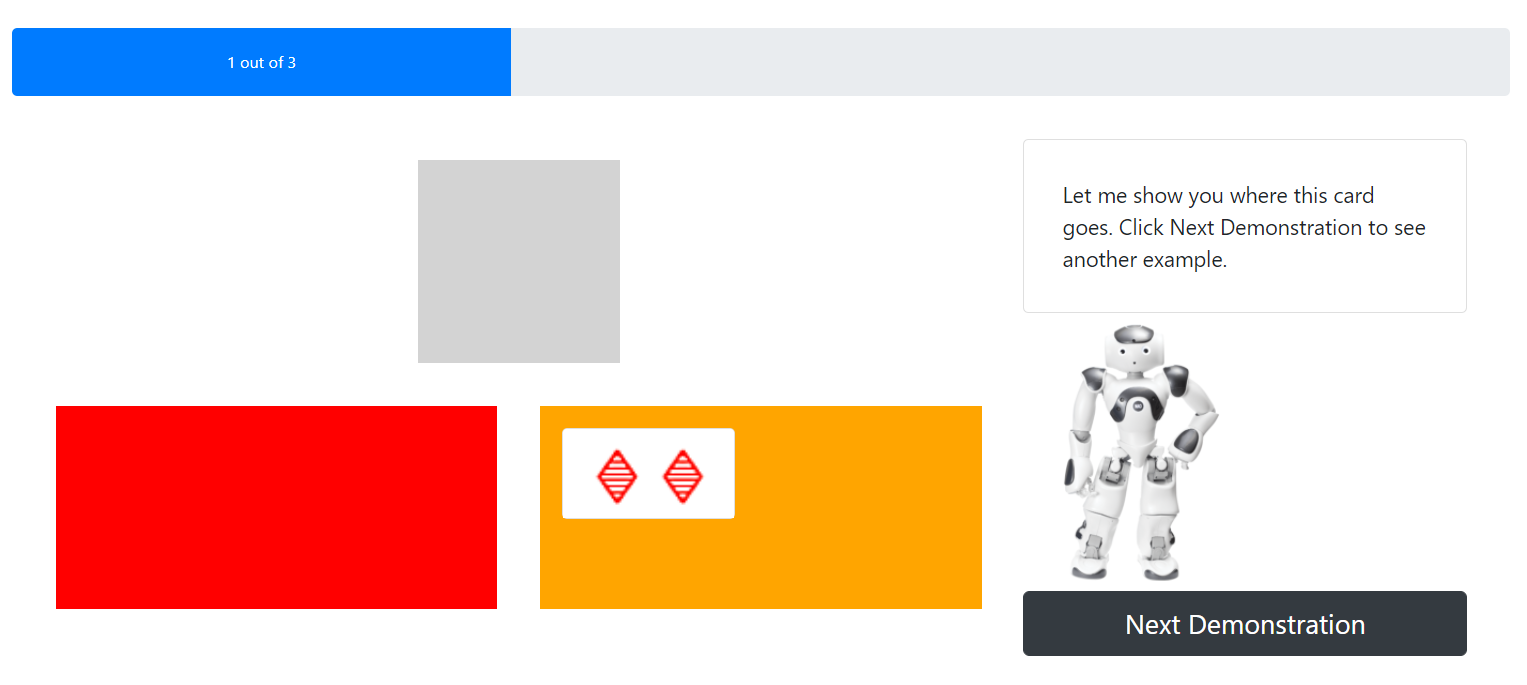
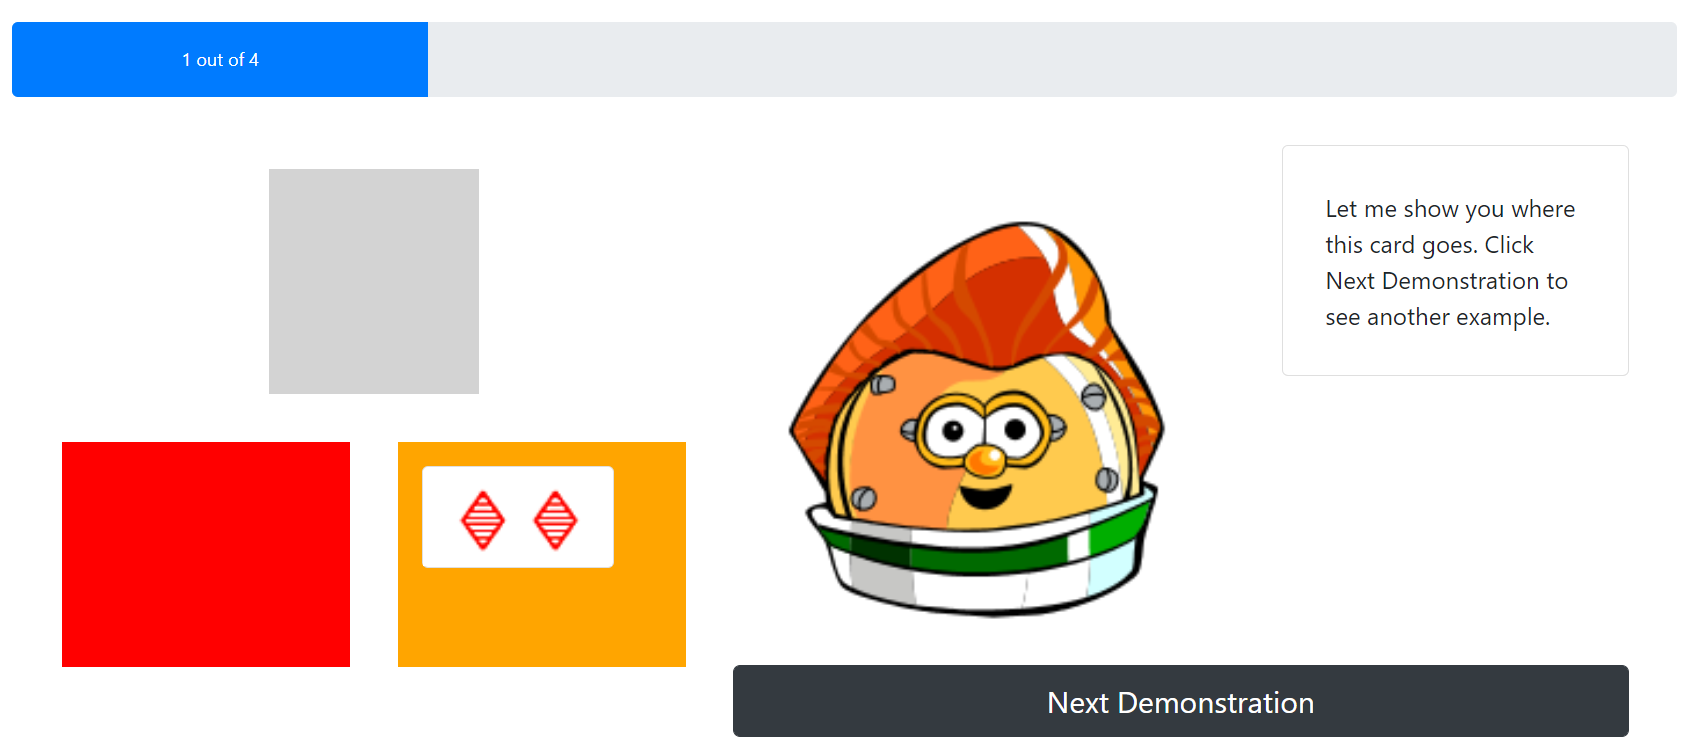
Added nonverbal feedback
- Added nonverbal feedback to entire pipeline
- Updated training
- Option in params.py to change the feedback type

diff --git a/app/templates/trials.html b/app/templates/trials.html
@@ -5,7 +5,7 @@
         {{num_completed_trials}} out of {{num_trials}}</div>
 </div>
 <div class="row" style="padding: 2em;">
-    <div class="col-8">
+    <div class="col-5">
         <div class="row">
             <div class="col"></div>
             <div id="staging" class="staging col">
@@ -23,26 +23,32 @@
             {% endfor %}
         </div>
         <div class="row">
-            {% for bin_id in range(num_bins) %}
-            <span id="bin_feedback{{bin_id}}" class="invisible">{{feedback[bin_id]}}</span> {% endfor %}
-        </div>
-        <div class="row">
-            <div class="col"></div>
             <div class="col">
                 <button type="button" class="btn btn-dark w-100" id="submit_choice_btn" onclick="showFeedback()">Submit
                     Choice</button>
-
             </div>
-            <div class="col"></div>
+        </div>
+        <div class="row">
+            {% for bin_id in range(num_bins) %}
+            <span id="bin_text_feedback{{bin_id}}" class="invisible">{{text_feedback[bin_id]}}</span>
+            <span id="bin_nonverbal_feedback{{bin_id}}" class="invisible">{{nonverbal_feedback[bin_id]}}</span> {% endfor %}
+            <span id="feedback_type" class="invisible">{{feedback_type}}</span>
         </div>
     </div>
-    <div class="col-4">
-        <div class="card w-80" style="padding: 0.5em;">
-            <div class="card-body" id="feedback_text">
-                Choose the bin you think the card belongs in
+    <div class="col-7">
+        <div class="row">
+            <div class="col-7">
+                <img id="robot" class="card-img-top w-100" style="padding: 0.5em;" src="../static/peach_1.png">
+            </div>
+            <div class="col-5">
+                <div class="card w-100" style="padding: 0.5em;">
+                    <div class="card-body" id="feedback_text">
+                        Choose the bin you think the card belongs in
+                    </div>
+                </div>
             </div>
         </div>
-        <img class="card-img-top w-50" style="padding: 0.5em;" src="../static/nao_static.png">
+
         <form action="" method="post">
             {{ form.hidden_tag() }}
 
@@ -52,6 +58,7 @@
             {{ form.submit_trial(class="btn btn-dark btn-lg w-100") }}
             <span class="invisible">{{ form.chosen_bin(cols=32, rows=4) }} </span>
         </form>
+
     </div>
 </div>
 

diff --git a/app/static/trials_script.js b/app/static/trials_script.js
@@ -1,3 +1,5 @@
+var timeout;
+
 function $(id) {
     return document.getElementById(id);
 };
@@ -21,13 +23,51 @@ function showFeedback() {
     var chosen_bin = document.getElementById("chosen_bin").value;
     var submit_choice_btn = document.getElementById("submit_choice_btn");
     var submit_trial_btn = document.getElementById("submit_trial");
+    var feedback_type = document.getElementById("feedback_type").innerHTML;
+    console.log(feedback_type);
 
     if (chosen_bin == "staging" || chosen_bin == "") {
         feedback_box.innerHTML = "Please choose a bin for the card!";
     } else {
-        feedback_box.innerHTML = $("bin_feedback" + chosen_bin[3]).innerHTML + " Go to the next trial.";
+        if (feedback_type == "text" || feedback_type == "both") {
+            feedback_box.innerHTML = $("bin_text_feedback" + chosen_bin[3]).innerHTML + " Go to the next trial.";
+        }
+        if (feedback_type == "nonverbal" || feedback_type == "both") {
+            var nonverbal = $("bin_nonverbal_feedback" + chosen_bin[3]).innerHTML.split(";");
+            var images = []
+            for (i = 0; i < nonverbal.length - 1; i++) {
+                images.push(nonverbal[i]);
+            }
+            var interval = parseInt(nonverbal[nonverbal.length - 1])
+
+            looper(images, interval, "robot");
+        }
+        if (feedback_type == "none") {
+            feedback_box.innerHTML = "Go to the next trial.";
+        }
         submit_choice_btn.disabled = true;
         submit_trial_btn.disabled = false;
         drake.destroy();
     }
+}
+
+function looper(images, interval, image_id) {
+    current_image = document.getElementById(image_id).src;
+    timeout = setTimeout(function() {
+        if (images.length == 2) {
+            if (current_image == images[0]) {
+                document.getElementById(image_id).src = images[1];
+                looper(images, interval, image_id);
+            } else {
+                document.getElementById(image_id).src = images[0];
+                looper(images, interval, image_id);
+            }
+        }
+
+    }, interval);
+
+}
+
+document.getElementById("submit_trial").onclick = function() {
+    clearTimeout(timeout);
 }

diff --git a/app/templates/demos.html b/app/templates/demos.html
@@ -5,7 +5,7 @@
 </div>
 
 <div class="row" style="padding: 2em;">
-    <div class="col-8">
+    <div class="col-5">
         <div class="row">
             <div class="col"></div>
             <div id="staging" class="staging col">
@@ -25,13 +25,20 @@
             {% endfor %}
         </div>
     </div>
-    <div class="col-4">
-        <div class="card w-80" style="padding: 0.5em;">
-            <div class="card-body" id="feedback_text">
-                Let me show you where this card goes. Click Next Demonstration to see another example.
+    <div class="col-7">
+        <div class="row">
+            <div class="col-7">
+                <img class="card-img-top w-100" style="padding: 0.5em;" src="../static/peach_static.png">
+            </div>
+            <div class="col-5">
+                <div class="card w-100" style="padding: 0.5em;">
+                    <div class="card-body" id="feedback_text">
+                        Let me show you where this card goes. Click Next Demonstration to see another example.
+                    </div>
+                </div>
             </div>
         </div>
-        <img class="card-img-top w-50" style="padding: 0.5em;" src="../static/nao_static.png">
+
         <form action="" method="post">
             {{ form.hidden_tag() }} {{ form.submit_demo(class="btn btn-dark btn-lg w-100") }}
         </form>

diff --git a/app/routes.py b/app/routes.py
@@ -131,12 +131,15 @@ def trials():
     num_completed_demos=current_user.demos.count()
     cur_card = CARD_ORDER[min(num_completed_trials, len(CARD_ORDER) - 1)]
     cur_answer = ANSWER[min(num_completed_trials, len(CARD_ORDER) - 1)]
-    feedback = []
+    text_feedback = []
+    nonverbal_feedback = []
     for ii, answer in enumerate(cur_answer):
-        if answer == 0:
-            feedback.append("Incorrect!")
+        if answer == 1:
+            text_feedback.append(TEXT_FEEDBACK['Correct'])
+            nonverbal_feedback.append(';'.join(NONVERBAL_FEEDBACK['Correct']))
         else:
-            feedback.append("Correct!")
+            text_feedback.append(TEXT_FEEDBACK['Incorrect'])
+            nonverbal_feedback.append(';'.join(NONVERBAL_FEEDBACK['Incorrect']))
             correct_bin = ii
 
     if form.validate_on_submit():
@@ -146,8 +149,9 @@ def trials():
                       card_num=cur_card,
                       correct_bin=correct_bin,
                       chosen_bin=chosen_bin,
-                      feedback_given=feedback[chosen_bin],
-                      feedback_type="text",
+                      text_feedback=text_feedback[chosen_bin],
+                      nonverbal_feedback=nonverbal_feedback[chosen_bin],
+                      feedback_type=FEEDBACK_TYPE,
                       rule_set=rules_to_str(RULES))
         db.session.add(trial)
         db.session.commit()
@@ -172,7 +176,9 @@ def trials():
                                card=cur_card,
                                num_completed_trials=num_completed_trials,
                                num_trials=NUM_TRIALS,
-                               feedback=feedback)
+                               text_feedback=text_feedback,
+                               nonverbal_feedback=nonverbal_feedback,
+                               feedback_type=FEEDBACK_TYPE)
         else:
             flash("You must complete the modules in order!")
             return redirect(url_for("index"))

diff --git a/app/params.py b/app/params.py
@@ -1,4 +1,5 @@
-DEBUG_MODE = True
+DEBUG_MODE = False
+FEEDBACK_TYPE = 'both' #none, text, nonverbal, both
 
 CARD_PROPERTIES = []
 for color in ['red', 'green', 'purple']:
@@ -10,15 +11,14 @@ for color in ['red', 'green', 'purple']:
 NUM_BINS = 2
 RULES = [
             [
-                [['red', 'green', 'purple'], ['open', 'striped', 'solid'], ['oval', 'squiggle'], ['one']]
+                [['red', 'green', 'purple'], ['open', 'striped', 'solid'], ['oval'], ['one', 'two', 'three']]
             ],
             [
-                [['red', 'green', 'purple'], ['open', 'striped', 'solid'], ['diamond', 'oval', 'squiggle'], ['two', 'three']],
-                [['red', 'green', 'purple'], ['open', 'striped', 'solid'], ['diamond'], ['one']]
+                [['red', 'green', 'purple'], ['open', 'striped', 'solid'], ['diamond', 'squiggle'], ['one', 'two', 'three']]
             ]
         ]
 
-CARD_ORDER = [3, 5, 6, 8, 10, 12, 34]
+CARD_ORDER = [7, 27, 60, 79, 32, 10, 45, 15, 3, 55]
 NUM_TRIALS = len(CARD_ORDER)
 ANSWER = []
 for card in CARD_ORDER:
@@ -34,7 +34,7 @@ for card in CARD_ORDER:
                     bin_res[cur_bin_num] = 1
     ANSWER.append(bin_res)
 
-CARD_ORDER_DEMO = [10, 12, 34]
+CARD_ORDER_DEMO = [10, 33, 75, 57]
 NUM_DEMOS = len(CARD_ORDER_DEMO)
 ANSWER_DEMO = []
 for card in CARD_ORDER_DEMO:
@@ -49,3 +49,6 @@ for card in CARD_ORDER_DEMO:
                 if res == 1:
                     bin_res[cur_bin_num] = 1
     ANSWER_DEMO.append(bin_res)
+
+TEXT_FEEDBACK = {'Correct': 'Correct!', 'Incorrect': 'Incorrect!'}
+NONVERBAL_FEEDBACK = {'Correct': ['http://127.0.0.1:5000/static/peach_1.png', 'http://127.0.0.1:5000/static/peach_2.png', '200'], 'Incorrect': ['http://127.0.0.1:5000/static/peach_2.png', 'http://127.0.0.1:5000/static/peach_5.png', '500']}

diff --git a/migrations/versions/8a1b3de6b5d0_users_table.py b/migrations/versions/8a1b3de6b5d0_users_table.py
@@ -1,8 +1,8 @@
 """users table
 
-Revision ID: 632d7fef4f8e
+Revision ID: 8a1b3de6b5d0
 Revises: 
-Create Date: 2020-11-05 09:19:03.938327
+Create Date: 2020-11-14 09:57:31.685223
 
 """
 from alembic import op
@@ -10,7 +10,7 @@ import sqlalchemy as sa
 
 
 # revision identifiers, used by Alembic.
-revision = '632d7fef4f8e'
+revision = '8a1b3de6b5d0'
 down_revision = None
 branch_labels = None
 depends_on = None
@@ -56,7 +56,8 @@ def upgrade():
     sa.Column('card_num', sa.Integer(), nullable=True),
     sa.Column('correct_bin', sa.Integer(), nullable=True),
     sa.Column('chosen_bin', sa.Integer(), nullable=True),
-    sa.Column('feedback_given', sa.String(length=300), nullable=True),
+    sa.Column('text_feedback', sa.String(length=300), nullable=True),
+    sa.Column('nonverbal_feedback', sa.String(length=300), nullable=True),
     sa.Column('feedback_type', sa.String(length=20), nullable=True),
     sa.Column('rule_set', sa.String(length=300), nullable=True),
     sa.ForeignKeyConstraint(['user_id'], ['user.id'], ),

diff --git a/app/models.py b/app/models.py
@@ -43,7 +43,8 @@ class Trial(db.Model):
     card_num = db.Column(db.Integer)
     correct_bin = db.Column(db.Integer)
     chosen_bin = db.Column(db.Integer)
-    feedback_given = db.Column(db.String(300))
+    text_feedback = db.Column(db.String(300))
+    nonverbal_feedback = db.Column(db.String(300))
     feedback_type = db.Column(db.String(20))
     rule_set = db.Column(db.String(300))
 

diff --git a/README.md b/README.md
@@ -1,21 +1,13 @@
 # robot-teaches-game
 
-## Notes
+## Installation
 - Install VS Code
-- Install Python 3
 - Do the set-up instructions from https://code.visualstudio.com/docs/python/tutorial-flask starting with the Prerequisites and Create Project Environment sections
-- Install Flask with `pip3 install flask` inside the `env`
-- Run the app with `python -m flask run`
-- https://stackoverflow.com/questions/56199111/visual-studio-code-cmd-error-cannot-be-loaded-because-running-scripts-is-disabl
-- https://github.com/bevacqua/dragula/
-- Alt + Shift + F is auto-indent
-- Flask Login with Database https://blog.miguelgrinberg.com/post/the-flask-mega-tutorial-part-v-user-logins
-- DB to CSV with https://www.rebasedata.com/convert-sqlite-to-csv-online
-
+- Select Interpretor to the `venv` and `Ctrl + Shift +` ` to open console within the env
+- Install Flask with `pip install flask` inside the env
+- Install Packages with pip, for example `pip install numpy scipy matplotlib` (there are definitely more packages needed, but not listed here. Install based on errors that you find)
+- Create the database using
 ```
-python -m venv env
-python -m pip install --upgrade pip
-pip install flask
 flask db init
 flask db migrate -m "users table"
 flask db upgrade
@@ -23,9 +15,12 @@ flask db migrate -m "trials table"
 flask db upgrade
 flask db migrate -m "demos table"
 flask db upgrade
-
-(Select Interpretor and Ctrl + Shift + `)
-python -m flask run
-
-pip install numpy scipy matplotlib
 ```
+- Run the app with `python -m flask run`
+
+## Useful Links
+- https://stackoverflow.com/questions/56199111/visual-studio-code-cmd-error-cannot-be-loaded-because-running-scripts-is-disabl
+- https://github.com/bevacqua/dragula/
+- Alt + Shift + F is auto-indent
+- Flask Login with Database https://blog.miguelgrinberg.com/post/the-flask-mega-tutorial-part-v-user-logins
+- DB to CSV with https://www.rebasedata.com/convert-sqlite-to-csv-online
